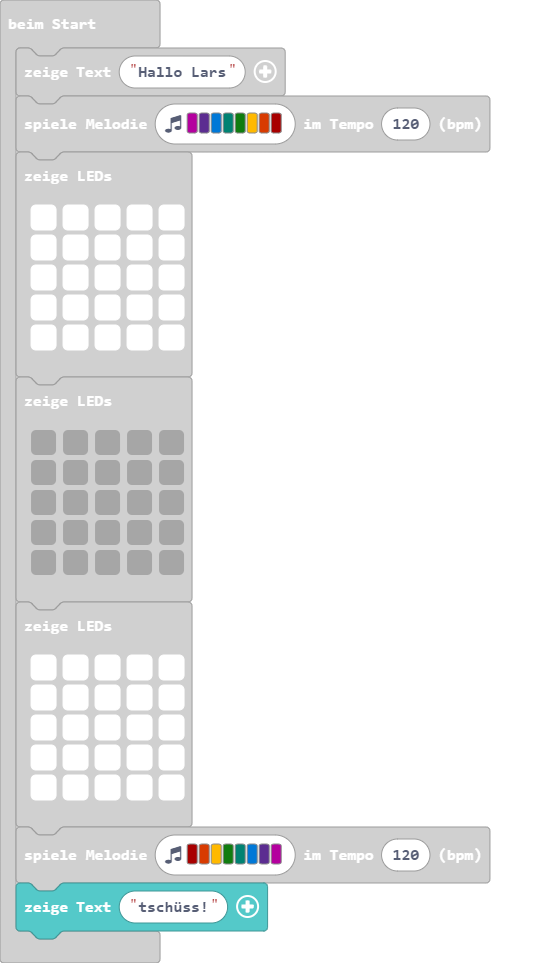
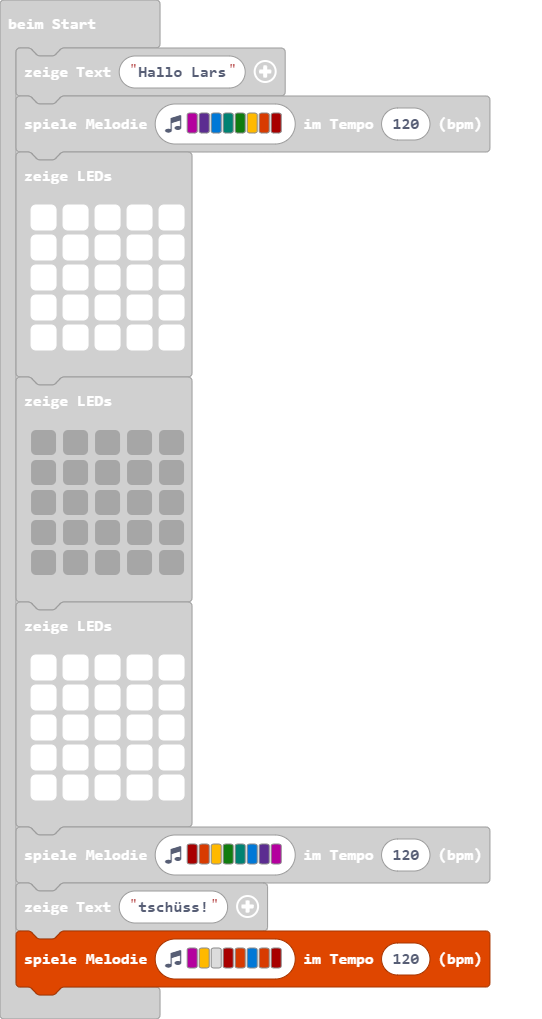
Aktualisiere main.blocks, main.ts

diff --git a/main.ts b/main.ts
@@ -23,6 +23,7 @@ basic.showLeds(`
     `)
 music.playMelody("C5 B A G F E D C ", 120)
 basic.showString("tschüss!")
+music.playMelody("C A - C5 B E B C5 ", 120)
 basic.forever(function () {
 	
 })
